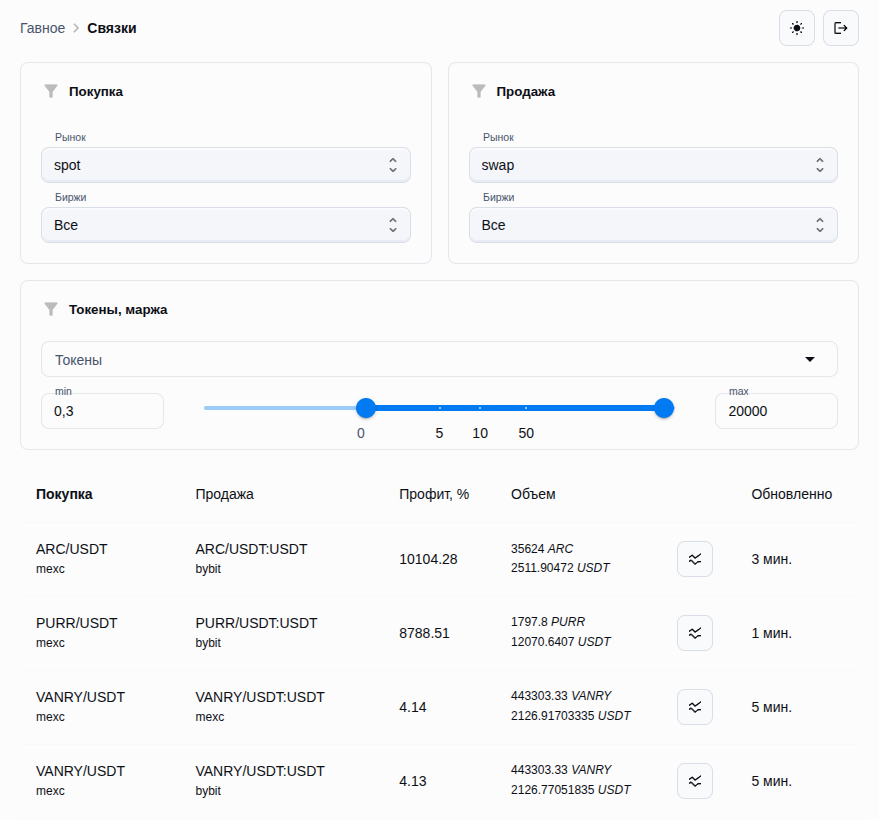
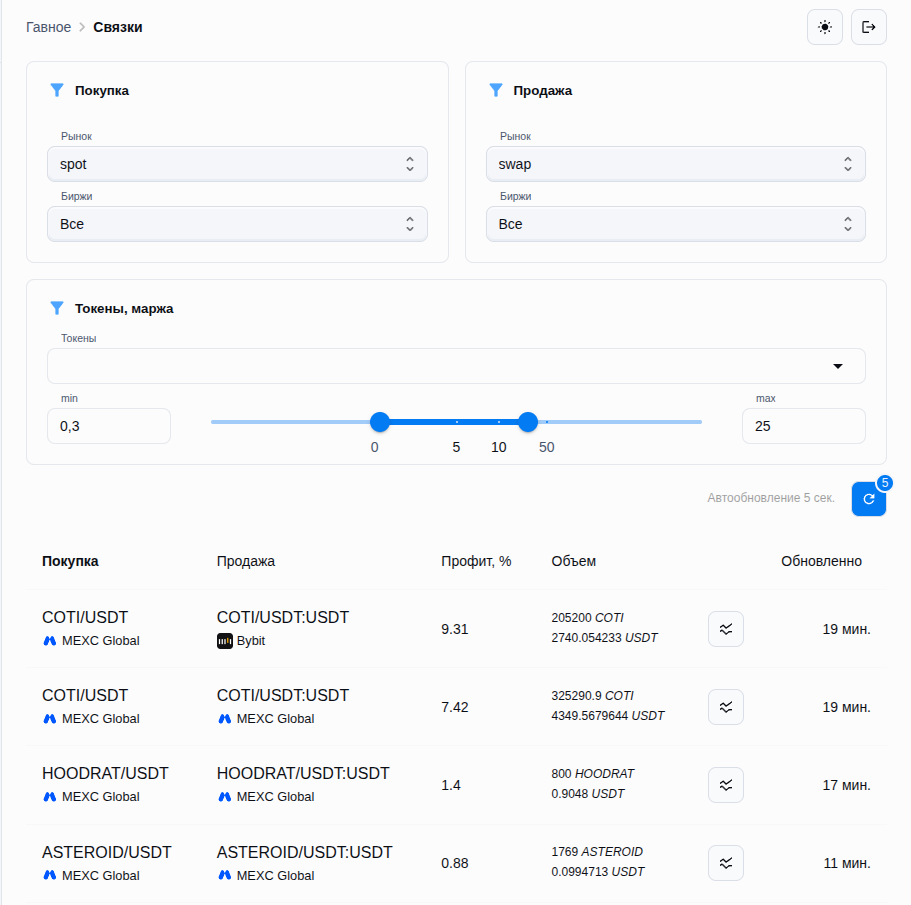
refactor

diff --git a/src/shared/api/schema-auth.ts b/src/shared/api/schema-auth.ts
@@ -81,7 +81,25 @@ export interface paths {
         };
         /** Me */
         get: operations["me_user_me_get"];
-        put?: never;
+        /** Me */
+        put: operations["me_user_me_put"];
+        post?: never;
+        delete?: never;
+        options?: never;
+        head?: never;
+        patch?: never;
+        trace?: never;
+    };
+    "/user/change-password": {
+        parameters: {
+            query?: never;
+            header?: never;
+            path?: never;
+            cookie?: never;
+        };
+        get?: never;
+        /** Change Password */
+        put: operations["change_password_user_change_password_put"];
         post?: never;
         delete?: never;
         options?: never;
@@ -97,6 +115,11 @@ export interface components {
         HTTPValidationError: {
             /** Detail */
             detail?: components["schemas"]["ValidationError"][];
+        };
+        /** UserChangePassword */
+        UserChangePassword: {
+            /** Password */
+            password: string;
         };
         /** UserLogin */
         UserLogin: {
@@ -140,6 +163,13 @@ export interface components {
             last_name: string;
             /** Password */
             password: string;
+        };
+        /** UserUpdate */
+        UserUpdate: {
+            /** First Name */
+            first_name: string;
+            /** Last Name */
+            last_name: string;
         };
         /** ValidationError */
         ValidationError: {
@@ -285,6 +315,72 @@ export interface operations {
                 };
                 content: {
                     "application/json": components["schemas"]["UserPublic"] | null;
+                };
+            };
+        };
+    };
+    me_user_me_put: {
+        parameters: {
+            query?: never;
+            header?: never;
+            path?: never;
+            cookie?: never;
+        };
+        requestBody: {
+            content: {
+                "application/json": components["schemas"]["UserUpdate"];
+            };
+        };
+        responses: {
+            /** @description Successful Response */
+            200: {
+                headers: {
+                    [name: string]: unknown;
+                };
+                content: {
+                    "application/json": unknown;
+                };
+            };
+            /** @description Validation Error */
+            422: {
+                headers: {
+                    [name: string]: unknown;
+                };
+                content: {
+                    "application/json": components["schemas"]["HTTPValidationError"];
+                };
+            };
+        };
+    };
+    change_password_user_change_password_put: {
+        parameters: {
+            query?: never;
+            header?: never;
+            path?: never;
+            cookie?: never;
+        };
+        requestBody: {
+            content: {
+                "application/json": components["schemas"]["UserChangePassword"];
+            };
+        };
+        responses: {
+            /** @description Successful Response */
+            200: {
+                headers: {
+                    [name: string]: unknown;
+                };
+                content: {
+                    "application/json": unknown;
+                };
+            };
+            /** @description Validation Error */
+            422: {
+                headers: {
+                    [name: string]: unknown;
+                };
+                content: {
+                    "application/json": components["schemas"]["HTTPValidationError"];
                 };
             };
         };

diff --git a/src/pages/profile/ui/Profile.tsx b/src/pages/profile/ui/Profile.tsx
@@ -1,18 +1,12 @@
 import {useUser} from "@features/auth/useUser.ts";
-import Stack from "@mui/material/Stack";
-import Typography from "@mui/material/Typography";
-import Container from "@mui/material/Container";
-import TextField from "@mui/material/TextField";
-import Button from "@mui/material/Button";
-import Grid from "@mui/material/Grid";
-import FormControl from "@mui/material/FormControl";
-import Box from "@mui/material/Box";
-import FormLabel from "@mui/material/FormLabel";
-import {useHandlers} from "../model/handlers.ts";
+import {Stack, Typography, Container, TextField, Button, Grid, FormControl, Box, FormLabel} from "@mui/material";
+import {useHandleUserChange} from "@pages/profile/model/useHandleUserChange.ts";
+import {useHandlePasswordChange} from "@pages/profile/model/useHandlePasswordChange.ts";
 
 
 export function Profile() {
-    const {handleSubmitData, handleSubmitPassword, error} = useHandlers();
+    const changeUser = useHandleUserChange();
+    const changePassword = useHandlePasswordChange();
     const user = useUser();
 
     return (
@@ -21,7 +15,7 @@ export function Profile() {
             <Grid container spacing={7}>
                 <Grid size={12}>
                     <Typography variant="h6" sx={{mb: 3}}>Мои данные</Typography>
-                    <Stack spacing={2} component="form" onSubmit={handleSubmitData}>
+                    <Stack spacing={2} component="form" onSubmit={changeUser.handleUserChange}>
                         <FormControl>
                             <FormLabel htmlFor="email">Email</FormLabel>
                             <TextField
@@ -51,7 +45,7 @@ export function Profile() {
                 </Grid>
                 <Grid>
                     <Typography variant="h6" sx={{mb: 3}}>Сменить пароль</Typography>
-                    <Box component="form" onSubmit={handleSubmitPassword}
+                    <Box component="form" onSubmit={changePassword.handleChangePassword}
                          sx={{display: 'flex', flexDirection: 'column', gap: 2}}>
                         <FormControl>
                             <FormLabel htmlFor="new_password1">Новый пароль</FormLabel>
@@ -68,8 +62,8 @@ export function Profile() {
                                 type="password"
                                 id="new_password2"
                                 name="new_password2"
-                                error={!!error.new_password2}
-                                helperText={error.new_password2}
+                                error={!!changePassword.error}
+                                helperText={changePassword.error}
                             />
                         </FormControl>
                         <Button

diff --git a/src/widgets/ArbitrageTableFull/ui/MobileView.tsx b/src/widgets/ArbitrageTableFull/ui/MobileView.tsx
@@ -11,7 +11,7 @@ import IconButton from "@mui/material/IconButton";
 import SsidChartIcon from "@mui/icons-material/SsidChart";
 import {Link as RouterLink} from "@tanstack/react-router";
 
-export function MobileView({data}: ArbitrageTableProps) {
+export function MobileView({data, actions = false}: ArbitrageTableProps) {
     return (
         <>
             {data ?
@@ -30,7 +30,7 @@ export function MobileView({data}: ArbitrageTableProps) {
                             <Stack direction="row" spacing={2} sx={{
                                 justifyContent: "space-between"
                             }}>
-                                <Stack spacing={2} sx={{maxWidth: 100}}>
+                                <Stack spacing={2} sx={{maxWidth: 150}}>
                                     <Stack direction="row">
                                         <ArrowDropUpIcon fontSize="small" opacity={0.5} color="success"/>
                                         <RenderSide
@@ -56,7 +56,7 @@ export function MobileView({data}: ArbitrageTableProps) {
                                             buy_symbol_id: item.buy_symbol_id
                                         }}
                                     >
-                                        <IconButton
+                                        {actions && <IconButton
                                             color="error"
                                             size="small"
                                             sx={{
@@ -66,7 +66,7 @@ export function MobileView({data}: ArbitrageTableProps) {
                                             }}
                                         >
                                             <SsidChartIcon/>
-                                        </IconButton>
+                                        </IconButton>}
                                     </RouterLink>
                                 </Stack>
                                 <Stack sx={{alignItems: "flex-end"}}>

diff --git a/src/pages/profile/model/useHandlePasswordChange.ts b/src/pages/profile/model/useHandlePasswordChange.ts
@@ -1,0 +1,33 @@
+import {useState} from "react";
+import type {ApiError} from "@shared/api/client.ts";
+import {useChangePassword} from "@features/auth/useChangePassword.ts";
+
+export function useHandlePasswordChange() {
+    const [error, setError] = useState('');
+    const changePassword = useChangePassword();
+
+    const handleChangePassword = (event: React.FormEvent<HTMLFormElement>) => {
+        event.preventDefault();
+        const form = new FormData(event.currentTarget);
+        const data = {
+            new_password1: form.get("new_password1") as string,
+            new_password2: form.get("new_password2") as string,
+        };
+        if (data.new_password1 !== data.new_password2) {
+            setError('Пароли не совпадают');
+            return;
+        }
+        setError('');
+        changePassword.mutate({password: data.new_password1}, {
+            onError: (error: Error) => {
+                const apiError = error as unknown as ApiError;
+                setError(apiError.data.detail.password)
+            }
+        })
+    };
+
+    return {
+        error,
+        handleChangePassword
+    }
+}

diff --git a/src/pages/profile/model/useHandleUserChange.ts b/src/pages/profile/model/useHandleUserChange.ts
@@ -1,0 +1,30 @@
+import {type SyntheticEvent, useState} from "react";
+import type {ApiError} from "@shared/api/client.ts";
+import {useUserChange} from "@features/auth/useUser.ts";
+
+export function useHandleUserChange() {
+    const userChange = useUserChange();
+    const [errors, setErrors] = useState({})
+    const handleUserChange = (event: SyntheticEvent<HTMLFormElement>) => {
+        event.preventDefault();
+        const form = new FormData(event.currentTarget);
+        const data = {
+            first_name: form.get("first_name") as string,
+            last_name: form.get("last_name") as string,
+        }
+        userChange.mutate(data as any, {
+            onError: (error: Error) => {
+                const apiError = error as unknown as ApiError;
+                setErrors(prev => ({
+                    ...prev,
+                    first_name: apiError?.data?.first_name,
+                    last_name: apiError?.data?.last_name,
+                }))
+            }
+        })
+    };
+    return {
+        handleUserChange,
+        errors
+    }
+}

diff --git a/src/widgets/ArbitrageTableFull/ui/RenderSide.tsx b/src/widgets/ArbitrageTableFull/ui/RenderSide.tsx
@@ -1,4 +1,5 @@
 import {Stack, Typography, type TypographyVariant} from "@mui/material";
+import {getIcon} from "../config/exchange-icons.tsx"
 
 
 export const RenderSide = ({symbol, exchange, variant = 'body1'}: {
@@ -6,8 +7,17 @@ export const RenderSide = ({symbol, exchange, variant = 'body1'}: {
     exchange: string,
     variant?: TypographyVariant
 }) => (
-    <Stack sx={{maxWidth: 100}}>
-        <Typography variant={variant} sx={{fontSize: {xs: '1rem'}}}>{symbol}</Typography>
-        <Typography variant="caption" sx={{fontSize: {xs: '0.8rem'}}}>{exchange}</Typography>
+    <Stack sx={{maxWidth: 200}}>
+        <Typography variant={variant}
+                    sx={{fontSize: {xs: '1rem'}, fontWeight: {xs: 'bold', sm: 'normal'}}}>{symbol}</Typography>
+
+        <Stack direction="row" spacing={0.5} sx={{alignItems: "center"}}>
+
+            {getIcon(exchange)}
+            <Typography variant="caption" sx={{fontSize: {xs: '0.8rem'}}}>
+                {exchange}
+            </Typography>
+        </Stack>
+
     </Stack>
 )

diff --git a/src/features/auth/useUser.ts b/src/features/auth/useUser.ts
@@ -1,5 +1,6 @@
-import {useQuery, useQueryClient} from "@tanstack/react-query";
+import {useMutation, useQuery, useQueryClient} from "@tanstack/react-query";
 import {authClient} from "@shared/api";
+import {type components} from "@shared/api/schema-auth.ts";
 
 export function useUser() {
     const queryClient = useQueryClient();
@@ -21,4 +22,16 @@ export function useUser() {
         },
         retry: false
     });
+}
+
+type UserChange = components['schemas']['UserUpdate']
+
+export function useUserChange() {
+    const queryClient = useQueryClient();
+    return useMutation({
+        mutationFn: async (data: UserChange) => {
+            return await authClient.PUT('/user/me', {body: data});
+        },
+        onSuccess: () => queryClient.refetchQueries({queryKey: ['user']})
+    })
 }

diff --git a/src/widgets/ArbitrageTableFull/config/exchange-icons.tsx b/src/widgets/ArbitrageTableFull/config/exchange-icons.tsx
@@ -1,0 +1,16 @@
+import {type ReactNode} from "react";
+import bybitIcon from "@shared/assets/icons/bybit.png"
+import mexcIcon from "@shared/assets/icons/mexc.png"
+import PublicIcon from '@mui/icons-material/Public';
+
+
+const iconMap = new Map<string, string>([
+    ["Bybit", bybitIcon],
+    ["MEXC Global", mexcIcon]
+]);
+
+
+export function getIcon(name: string): ReactNode {
+    const icon = iconMap.get(name);
+    return icon ? <img alt={name} src={icon} width={16} height={16}/> : <PublicIcon width={16} height={16}/>
+}

diff --git a/src/features/auth/useChangePassword.ts b/src/features/auth/useChangePassword.ts
@@ -1,0 +1,13 @@
+import {useMutation} from "@tanstack/react-query";
+import {authClient} from "@shared/api";
+import {type components} from "@shared/api/schema-auth.ts";
+
+type UserChangePassword = components['schemas']['UserChangePassword']
+
+export function useChangePassword() {
+    return useMutation({
+        mutationFn: async (data: UserChangePassword) => {
+            return await authClient.PUT('/user/change-password', {body: data});
+        }
+    })
+}

diff --git a/src/shared/api/client.ts b/src/shared/api/client.ts
@@ -2,9 +2,9 @@ import createClient, {type Middleware} from "openapi-fetch"
 import {type paths as authPaths} from "./schema-auth.ts"
 import {type paths as arbPaths} from "./schema-arb.ts"
 
-const baseUrl = 'http://localhost/';
-const authPrefix = 'api/auth';
-const arbPrefix = 'api/arb';
+const baseUrl = '';
+const authPrefix = '/api/auth';
+const arbPrefix = '/api/arb';
 
 let refreshTokenPromise: Promise<void> | null = null;
 

diff --git a/src/app/routes/d/_layout.profile.tsx b/src/app/routes/d/_layout.profile.tsx
@@ -1,5 +1,5 @@
 import {createFileRoute} from '@tanstack/react-router'
-import {Profile} from "@pages/Profile";
+import {Profile} from "@pages/profile";
 
 export const Route = createFileRoute('/d/_layout/profile')({
     component: Profile,
